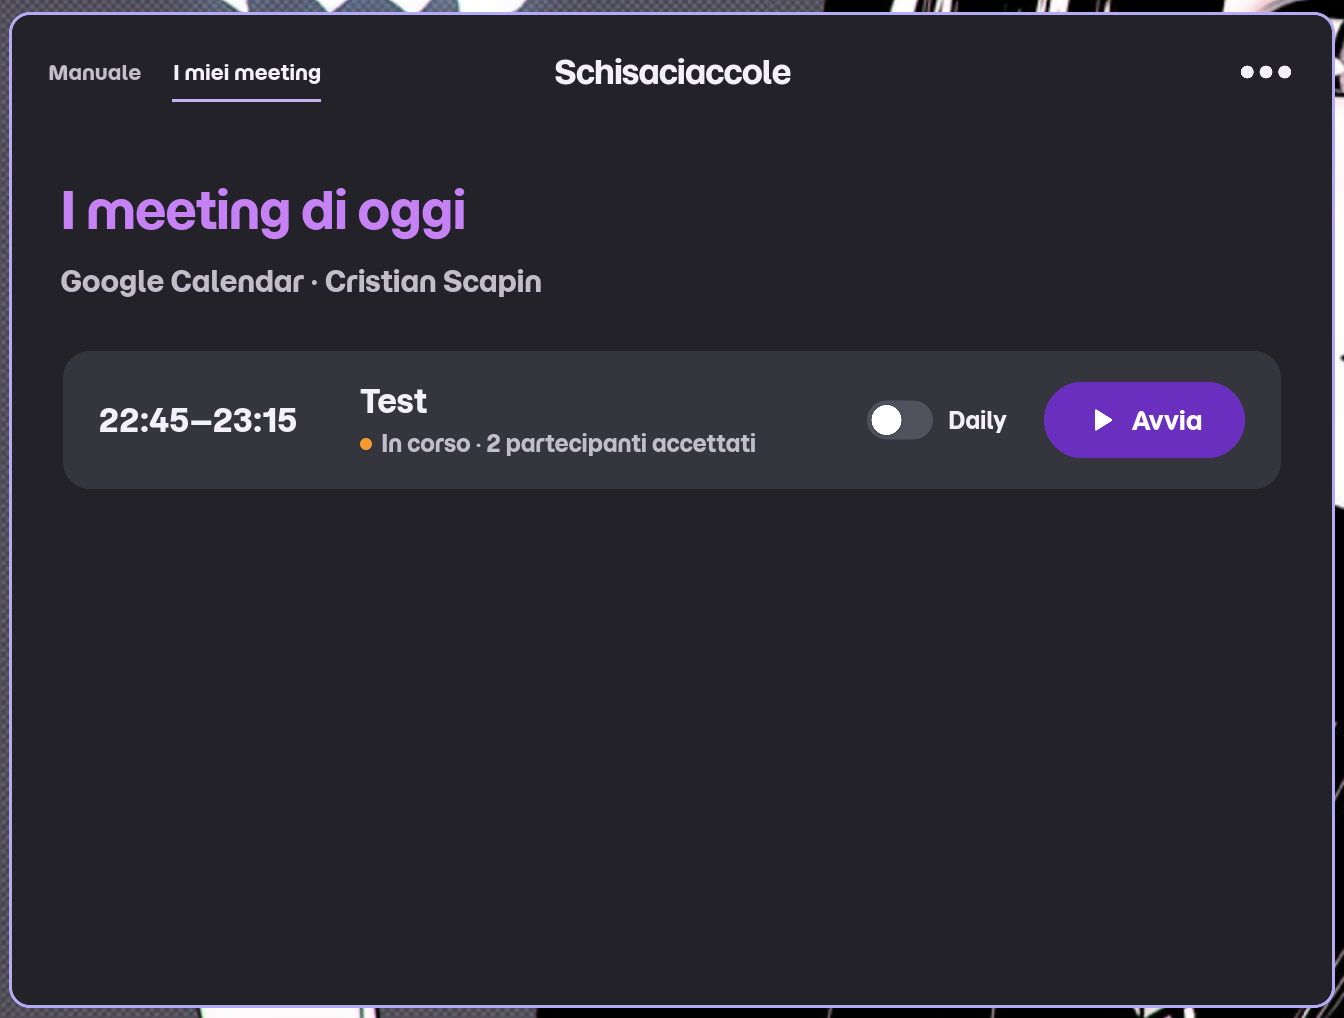
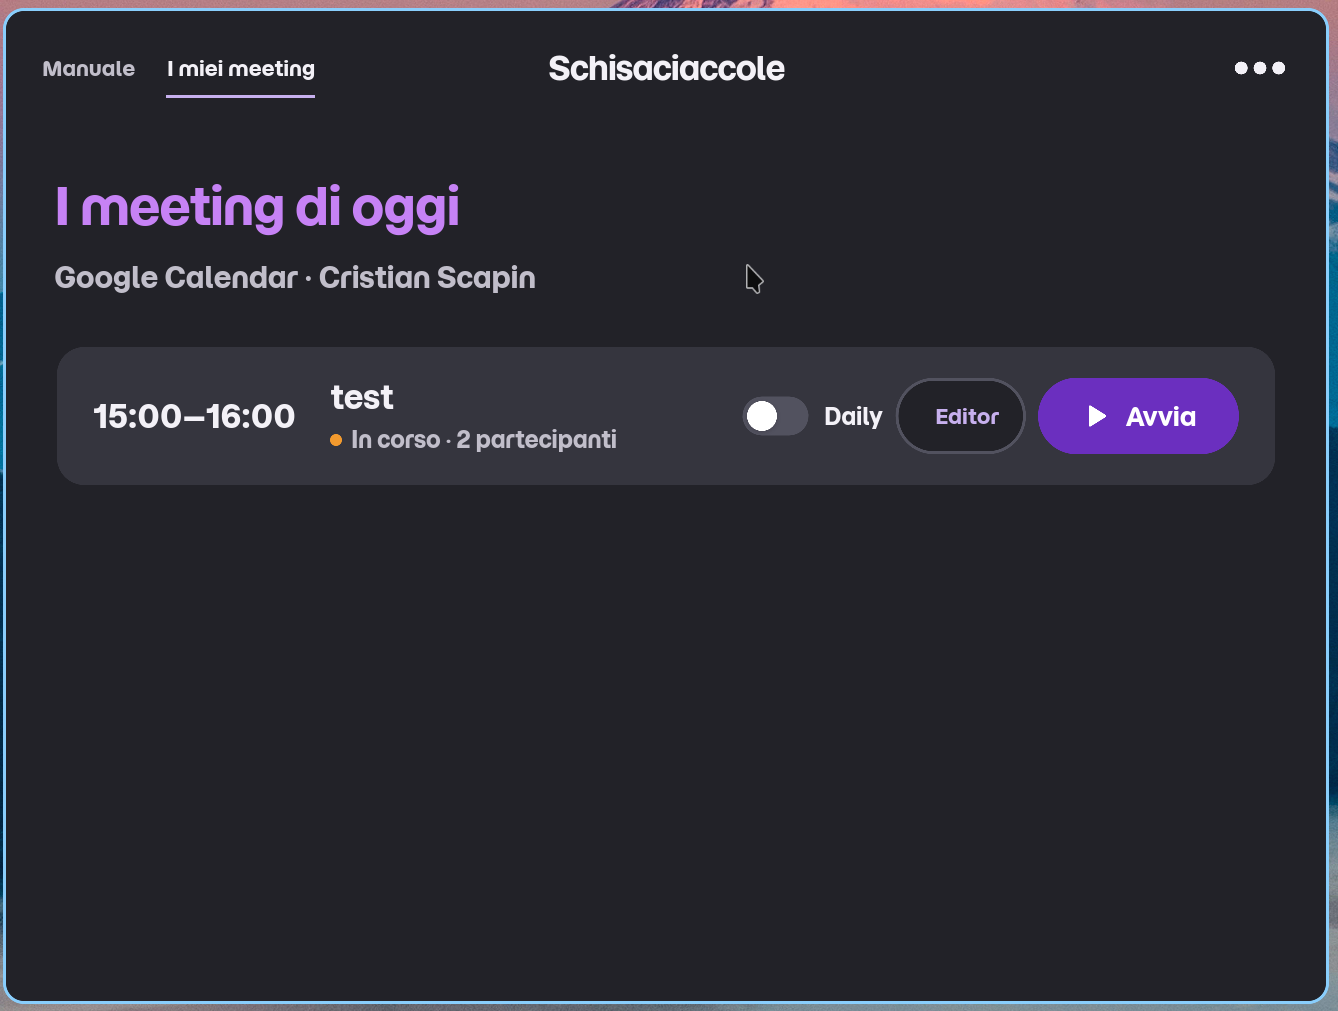
docs: update screenshots for the editor and the meetings list
Replace the meetings list screenshot with one showing the Editor button
and add two editor screenshots, with the plain and the Daily start
button, in the README and the screen guide. Participant emails are
masked.

diff --git a/docs/guide/flusso-frontend-backend.md b/docs/guide/flusso-frontend-backend.md
@@ -278,7 +278,6 @@ Browser
 <tr>
 <td width="40%" valign="top">
 <img src="../../assets/screenshot_meetings.png" alt="Lista dei meeting di oggi" width="100%">
-<br><sub>Lo screenshot è precedente al pulsante <b>Editor</b>, che oggi compare accanto ad <b>Avvia</b> in ogni riga.</sub>
 </td>
 <td valign="top">
 
@@ -307,27 +306,9 @@ Browser
 <table>
 <tr>
 <td width="40%" valign="top">
-<pre>
-┌────────────────────────────────────┐
-│ Partecipanti di questo meeting     │
-│ Sprint Review - 10:00-11:00 - 1h   │
-│ (Lista partecipanti incompleta...) │
-│ (Ricollega Google)                 │
-│ ┌────────────────────────────────┐ │
-│ │ [x] Anna Rossi                 │ │
-│ │     anna@azienda.it            │ │
-│ │ [ ] Bruno Verdi                │ │
-│ │     bruno@azienda.it           │ │
-│ │ [x] Marco                      │ │
-│ │     Ospite esterno          x  │ │
-│ └────────────────────────────────┘ │
-│            + Aggiungi partecipante │
-│ Preferenza salvata                 │
-│ <-  Ripristina    Elimina  [Salva] │
-│     partecipanti  preferenza       │
-│                      [Avvia Daily] │
-└────────────────────────────────────┘
-</pre>
+<img src="../../assets/screenshot_editor.png" alt="Editor dei partecipanti" width="100%">
+<br><sub>Con l'interruttore Daily della riga acceso il pulsante diventa <b>Avvia Daily</b>:</sub>
+<br><img src="../../assets/screenshot_editor_daily.png" alt="Editor con il pulsante Avvia Daily" width="100%">
 </td>
 <td valign="top">
 

diff --git a/README.md b/README.md
@@ -30,6 +30,10 @@ countdown whose speaking turns list the chosen participants.
 | --- | --- |
 | ![Manuale: end time picked](assets/screenshot_end_time.png) | ![Daily mode](assets/screenshot_daily.png) |
 
+| Participant editor | Editor with the Daily switch on |
+| --- | --- |
+| ![Participant editor](assets/screenshot_editor.png) | ![Editor with the Daily switch on](assets/screenshot_editor_daily.png) |
+
 ## Requirements
 
 - [Rust](https://www.rust-lang.org/tools/install) (stable toolchain, `cargo`)
